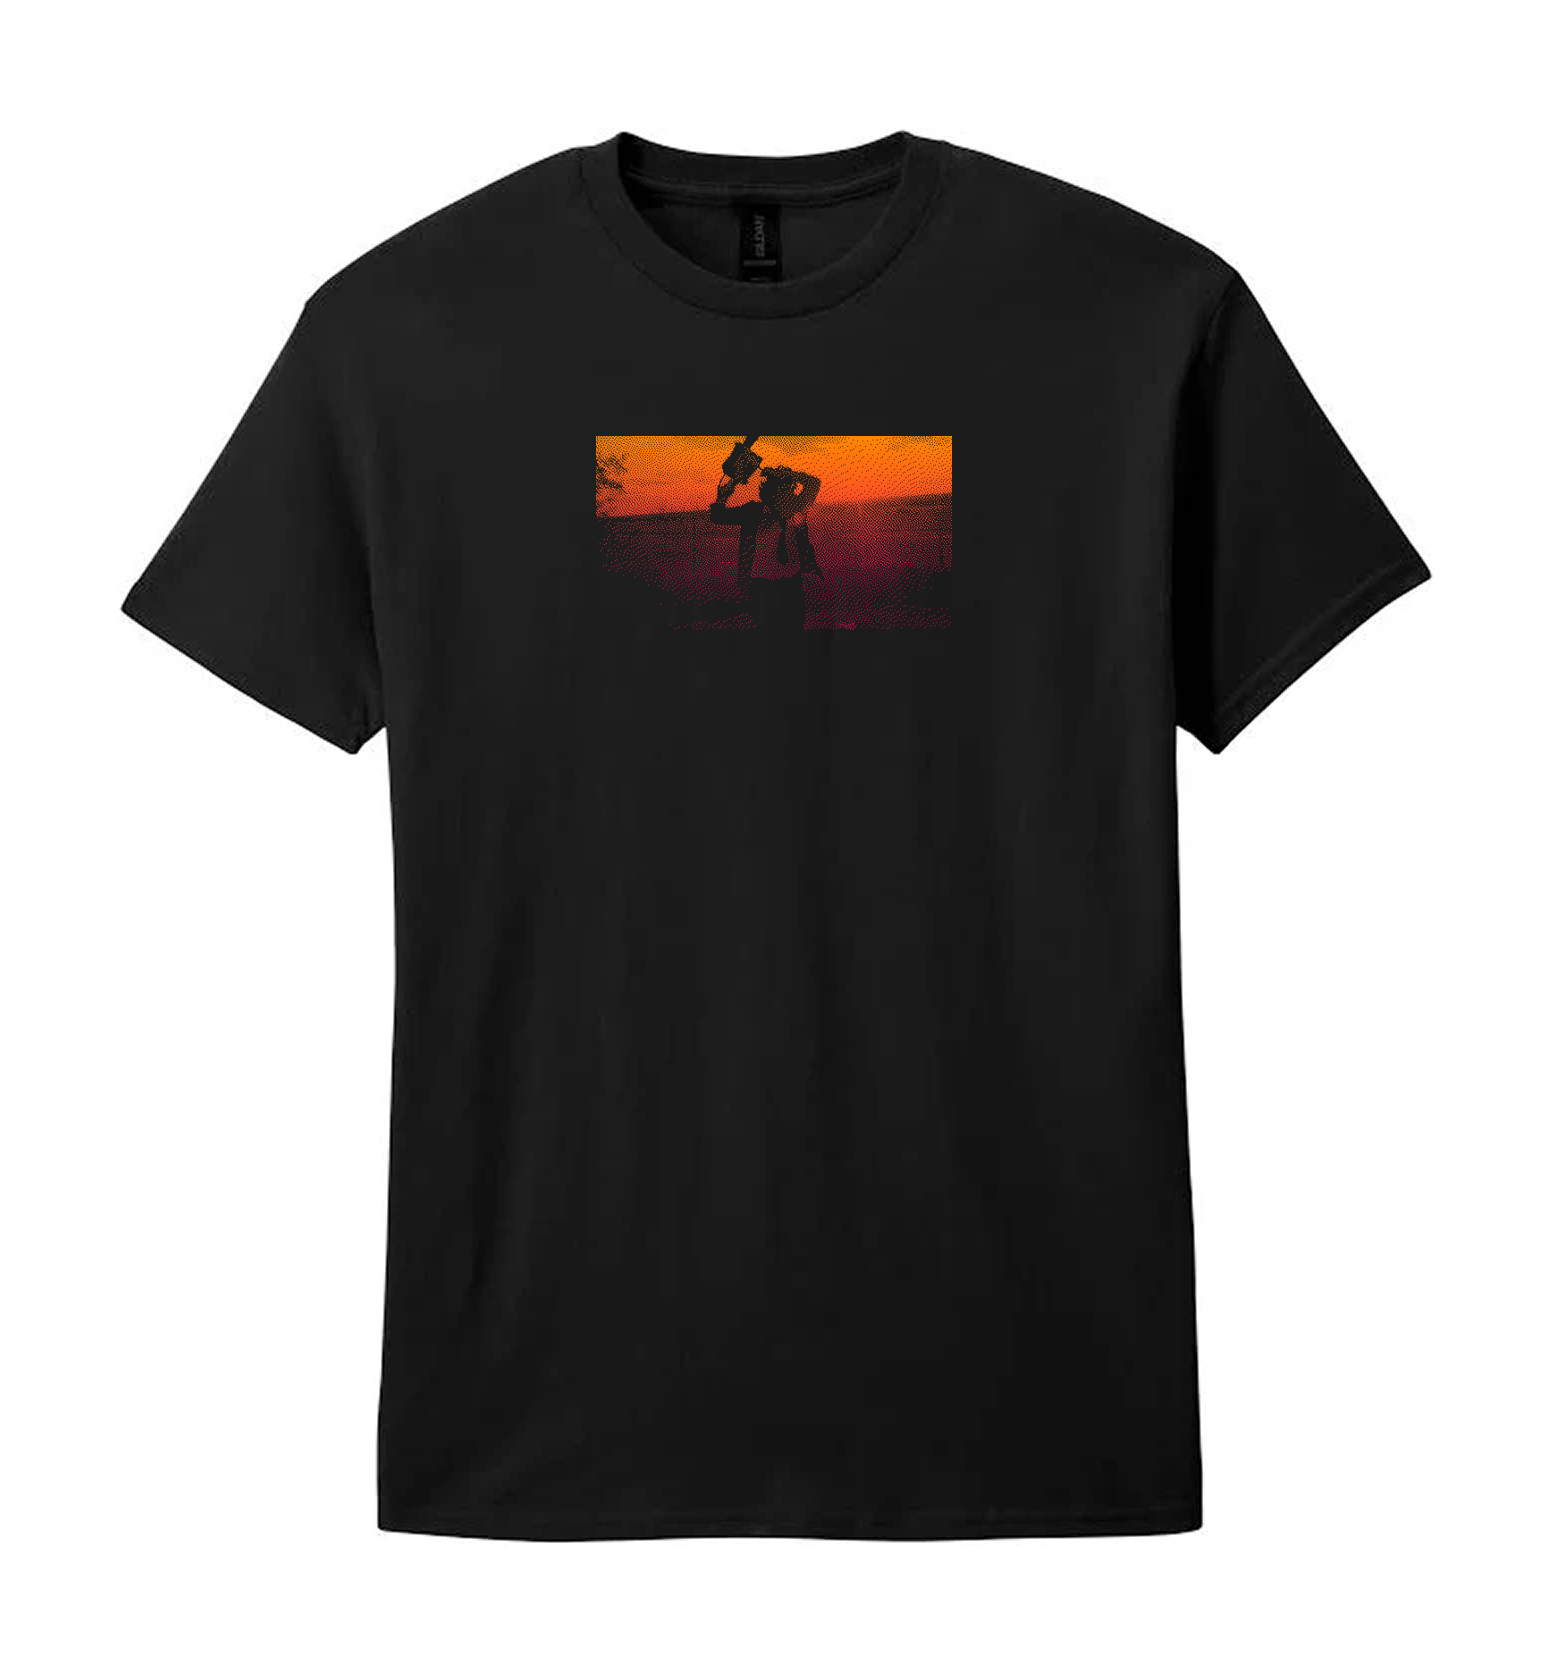
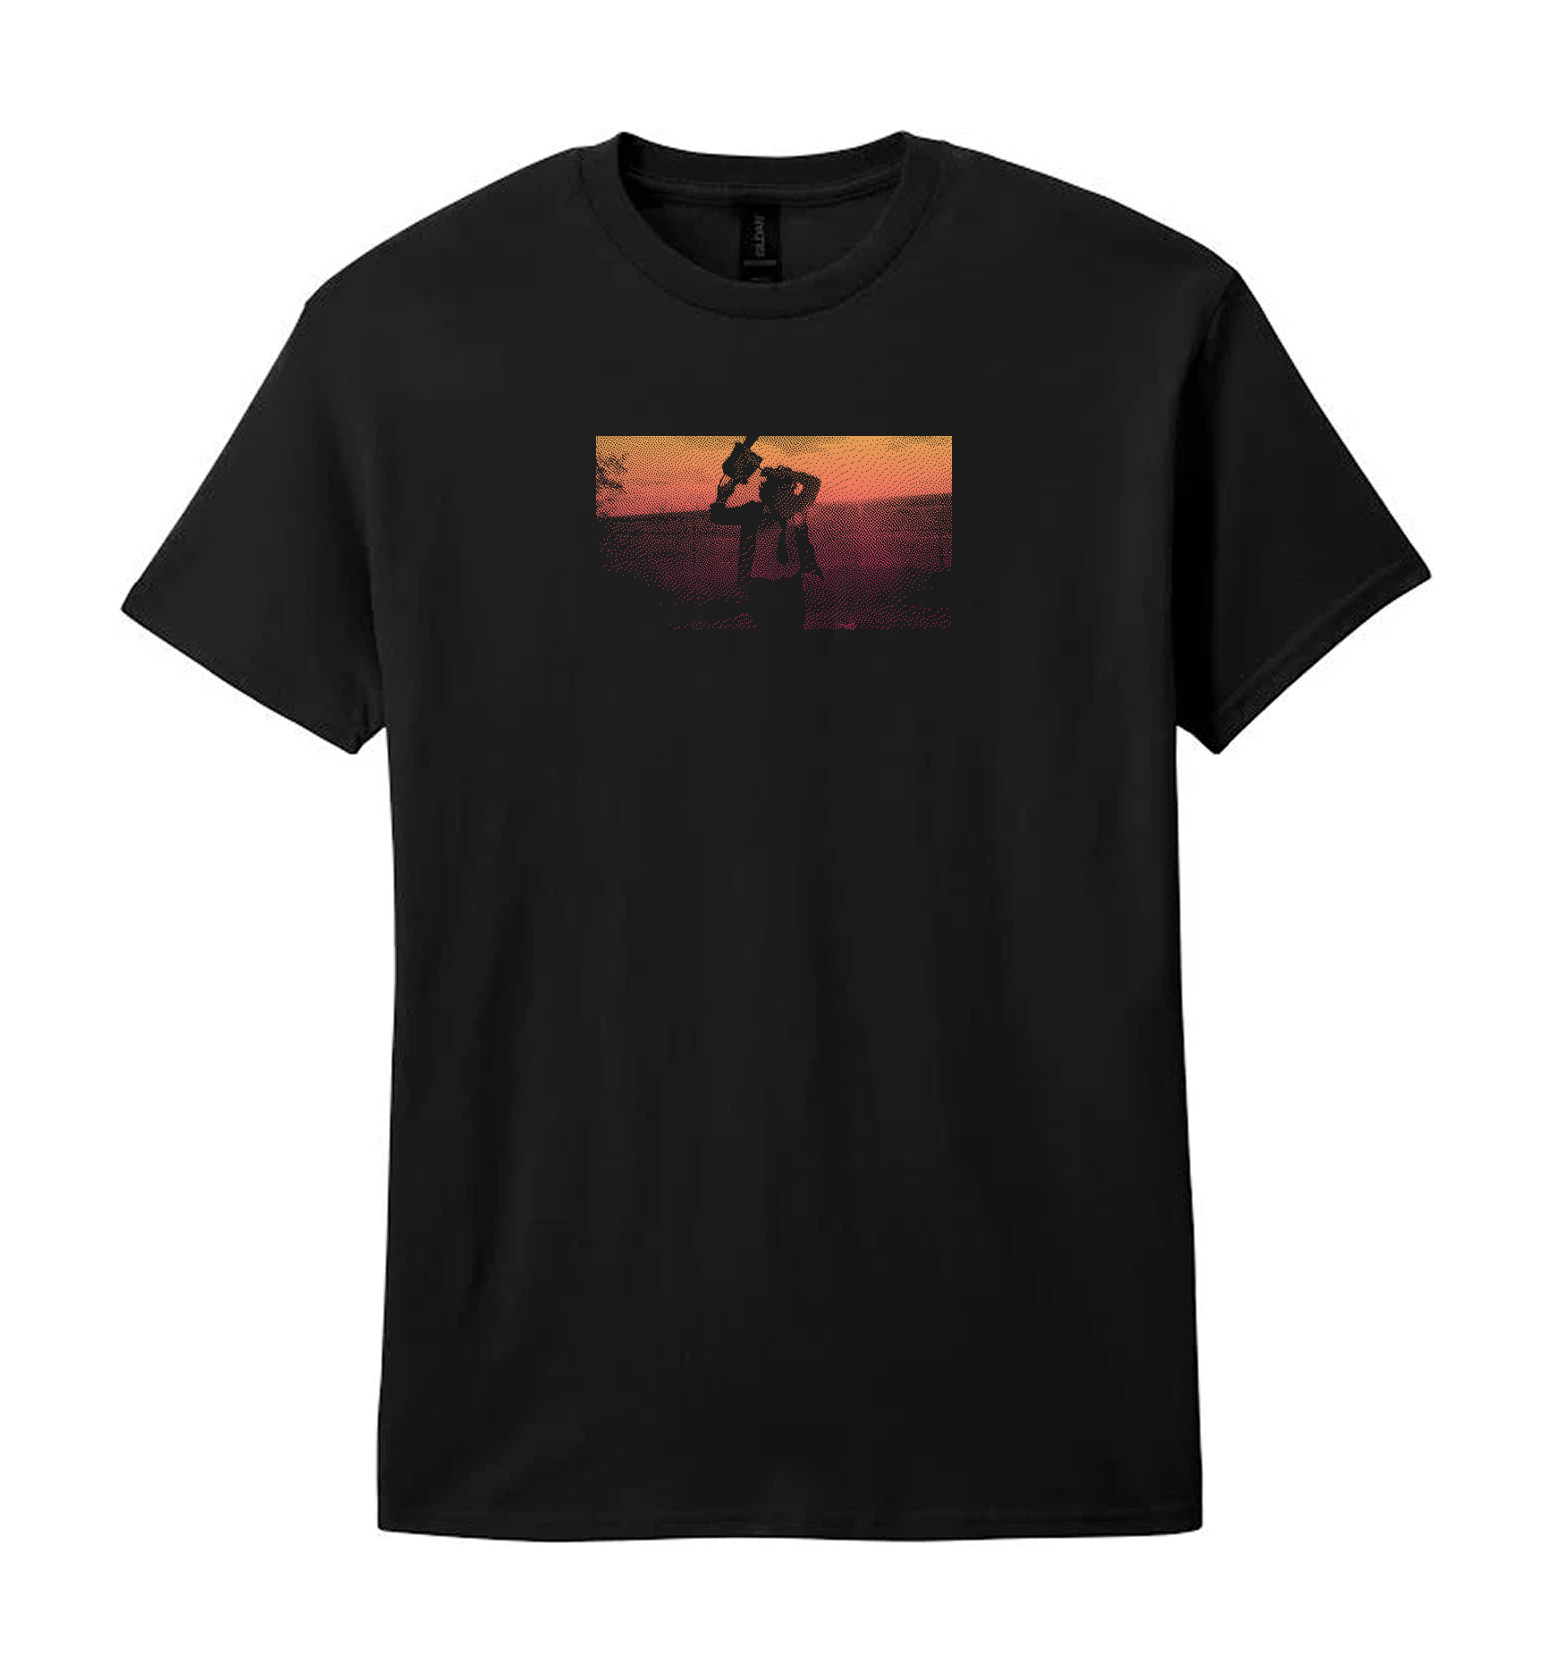
docs(leatherface): new mockups, orange-to-pink and rusty orange
Option A is now orange to pink, option B is a rusty orange single
color rather than white. Both tee mockups replaced to match.

Changed region(s): [[0.3711, 0.2485, 0.6186, 0.3417]]

diff --git a/src/data/specs.js b/src/data/specs.js
@@ -9,7 +9,7 @@ export const SPECS = [
   {
     id: 'leatherface',
     docNo: 'VHSG-APP-001',
-    rev: 'E',
+    rev: 'F',
     title: 'Leatherface',
     subtitle: 'Screenprint Spec',
     issued: '2026-08-16',
@@ -42,14 +42,14 @@ export const SPECS = [
         key: 'A',
         title: 'Gradient pull',
         href: '/images/docs/leatherface/leatherface-preview-tee-gradient.png',
-        ink: 'Neon orange into neon pink',
+        ink: 'Orange to pink',
         note: 'Split fountain. Orange up top, pink down low. Every one comes out a little different.',
       },
       {
         key: 'B',
         title: 'Normal pull',
         href: '/images/docs/leatherface/leatherface-preview-tee.png',
-        ink: 'White, one color',
+        ink: 'Rusty orange',
         note: 'Single ink, straight pull. Every shirt comes out the same.',
       },
     ],
